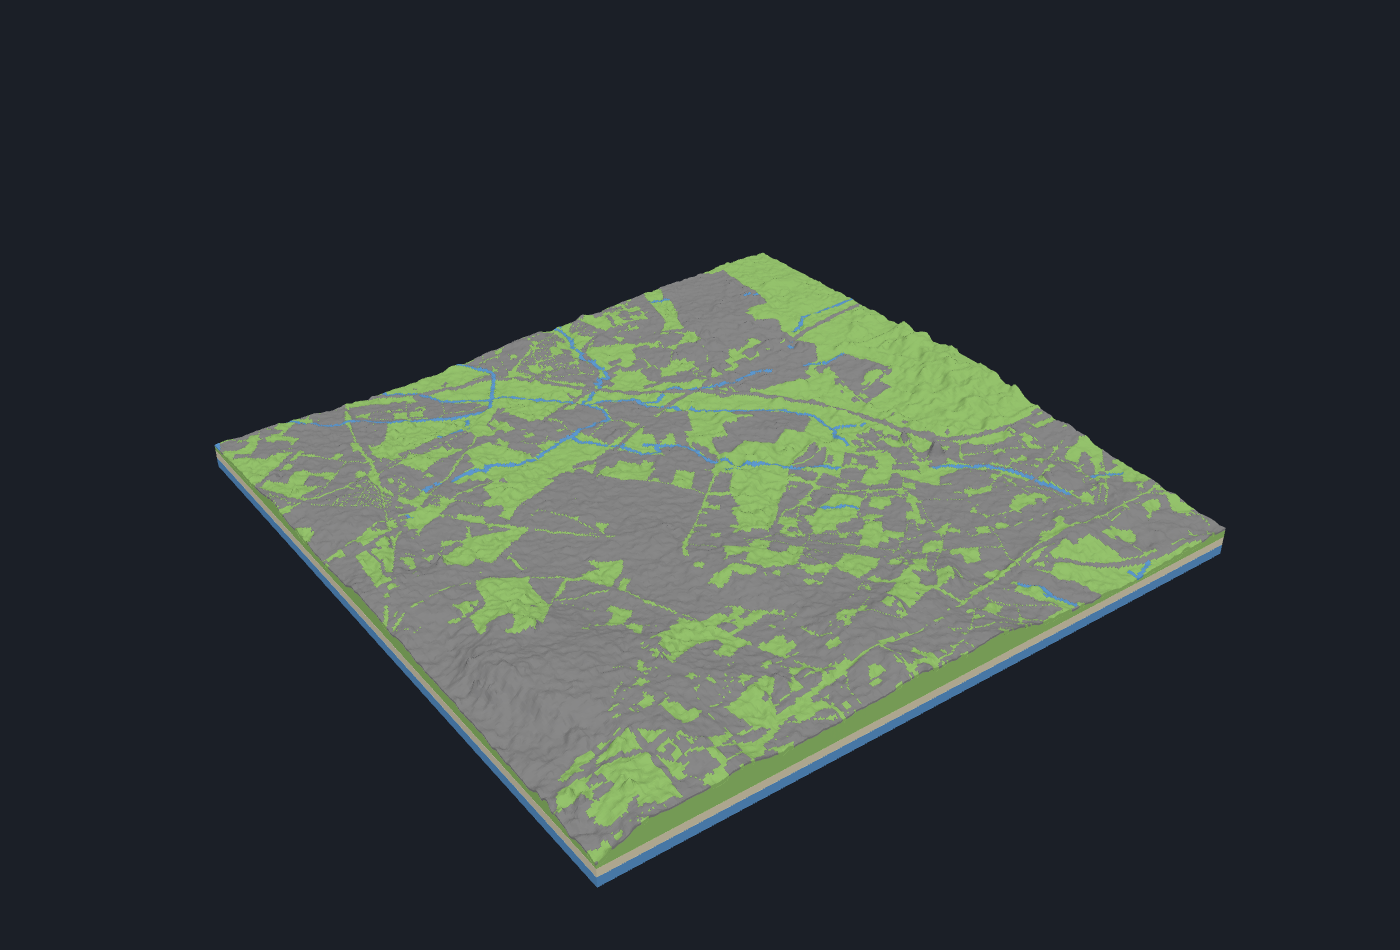
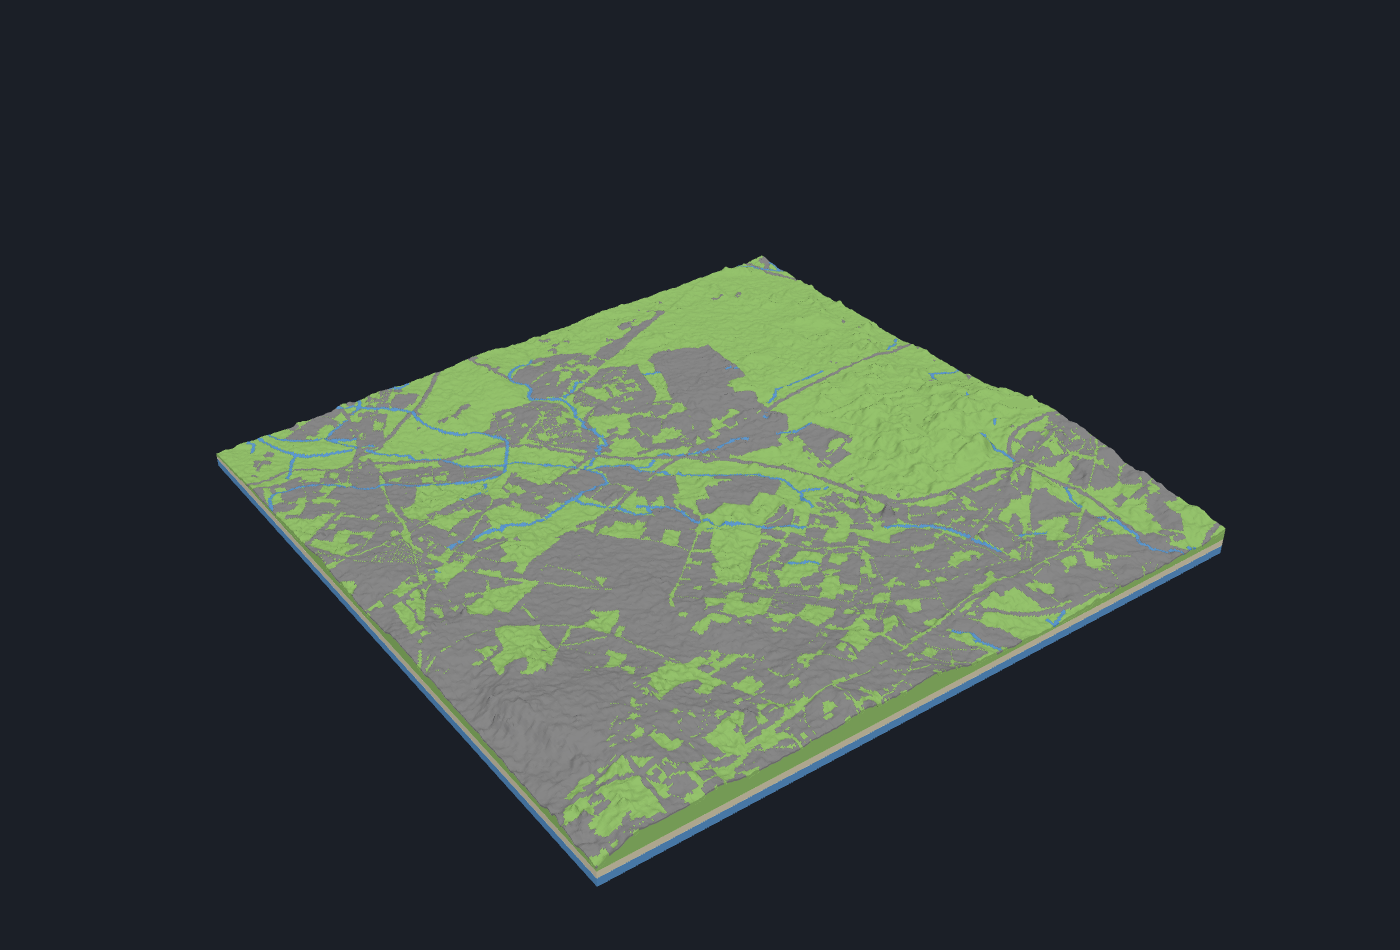
Claude opus did the finishing touches

Changed region(s): [[0.1536, 0.2442, 0.8907, 0.9158], [0.3379, 0.7632, 0.3686, 0.8242], [0.3071, 0.7326, 0.3379, 0.7632]]

diff --git a/my3dmaps/config.py b/my3dmaps/config.py
@@ -12,8 +12,41 @@ from dataclasses import asdict, dataclass, field, fields
 from pathlib import Path
 from typing import Any, Optional
 
-TILE_MM_DEFAULT = 200.0
+TILE_MM_DEFAULT = 245.0  # 2 x 2 tiles fill a 50 x 50 cm frame with a 5 mm border
 BED_MM = 256.0
+# Elegoo Centauri Carbon 2 no-print zone, from OrcaSlicer's official profile
+# (resources/profiles/Elegoo/machine/ECC2, "bed_exclude_area"): x 246-256, y 0-20.
+BED_EXCLUDE = [(246.0, 0.0, 256.0, 20.0)]
+BED_CLEARANCE_MM = 0.5  # gap kept from the bed edge and the no-print zone
+
+
+def place_on_bed(footprint_mm: float) -> tuple[float, float] | None:
+    """(x, y) of a square footprint's lower-left corner on the bed: centred when
+    that clears the no-print zones, otherwise shifted the least distance that
+    does.  None if it cannot fit at all."""
+    lo, hi = BED_CLEARANCE_MM, BED_MM - BED_CLEARANCE_MM - footprint_mm
+    if hi < lo:
+        return None
+    centre = (BED_MM - footprint_mm) / 2.0
+
+    def clear(x: float, y: float) -> bool:
+        return all(x + footprint_mm <= ex0 - BED_CLEARANCE_MM or x >= ex1 + BED_CLEARANCE_MM
+                   or y + footprint_mm <= ey0 - BED_CLEARANCE_MM or y >= ey1 + BED_CLEARANCE_MM
+                   for ex0, ey0, ex1, ey1 in BED_EXCLUDE)
+
+    cands = {lo, hi, centre}
+    for ex0, ey0, ex1, ey1 in BED_EXCLUDE:
+        cands |= {ex0 - BED_CLEARANCE_MM - footprint_mm, ex1 + BED_CLEARANCE_MM,
+                  ey0 - BED_CLEARANCE_MM - footprint_mm, ey1 + BED_CLEARANCE_MM}
+    cands = sorted(c for c in cands if lo - 1e-9 <= c <= hi + 1e-9)
+    best = None
+    for x in cands:
+        for y in cands:
+            if clear(x, y):
+                d = abs(x - centre) + abs(y - centre)
+                if best is None or d < best[0]:
+                    best = (d, x, y)
+    return None if best is None else (best[1], best[2])
 
 NAMED_COLORS = {
     "blue": "#1f5fbf",
@@ -149,6 +182,13 @@ class SlicerConfig:
     filament_presets: list[str] = field(default_factory=list)  # one .json per physical slot (up to 4)
     extra_args: list[str] = field(default_factory=list)
     timeout_s: int = 3600
+    # "auto": switch the prime tower off when the tile leaves no room for one on the bed
+    # (a 245 mm tile leaves 11 mm); "on"/"off" force it.  Applied by writing a copy of
+    # process_preset with enable_prime_tower overridden.  The CC2 purges each colour
+    # change itself (purge_in_prime_tower = 0), so no tower only loses the nozzle wipe
+    # and OrcaSlicer's flush-into-infill, which needs a tower to take effect.
+    prime_tower: str = "auto"
+    prime_tower_room_mm: float = 35.0  # free bed width "auto" needs beside the tile to keep the tower
 
 
 @dataclass
@@ -222,8 +262,9 @@ class ProjectConfig:
         problems = []
         if not (0.05 <= self.pitch_mm <= 5):
             problems.append("pitch_mm should be between 0.05 and 5")
-        if self.tile_mm * (1 + self.shrinkage_pct / 100.0) > BED_MM - 8:
-            problems.append("tile (after shrinkage compensation) leaves no margin on the 256 mm bed")
+        if place_on_bed(self.tile_mm * (1 + self.shrinkage_pct / 100.0)) is None:
+            problems.append(f"a {self.tile_mm * (1 + self.shrinkage_pct / 100.0):.1f} mm tile does not fit the bed "
+                            "outside the printer's no-print zone (largest square is about 245 mm)")
         if not (-2.0 <= self.shrinkage_pct <= 5.0):
             problems.append("shrinkage_pct should be a small percentage (e.g. 0.3)")
         if self.rivers.enabled and self.rivers.depth_mm > self.palette.skin_depth_mm:

diff --git a/tests/test_pipeline_synthetic.py b/tests/test_pipeline_synthetic.py
@@ -69,14 +69,14 @@ def test_tile_objects_are_closed_and_fit_height(synth):
     assert abs(total - expected) / expected < 0.02
     lo, hi = np.min([o.mesh.bounds()[0] for o in tb.objects], axis=0), np.max([o.mesh.bounds()[1] for o in tb.objects], axis=0)
     assert lo[2] == 0.0
-    assert 20 < lo[0] < 40 and 216 < hi[0] < 236  # centred on the 256 mm bed
+    assert abs(lo[0] - 28.0) < 1e-6 and abs(hi[0] - 228.0) < 1e-6  # a 200 mm tile is centred on the 256 mm bed
 
 
 def test_shared_border_between_tiles(synth):
     cfg, grid, elev, water = synth
     cls = classify(cfg, grid, elev, water)
-    a = build_tile(cfg, grid, cls, 0, 0, 2.0, float(elev.min()), center_on_bed=False)
-    b = build_tile(cfg, grid, cls, 1, 0, 2.0, float(elev.min()), center_on_bed=False)
+    a = build_tile(cfg, grid, cls, 0, 0, 2.0, float(elev.min()), place=False)
+    b = build_tile(cfg, grid, cls, 1, 0, 2.0, float(elev.min()), place=False)
     va = np.concatenate([o.mesh.vertices for o in a.objects])
     vb = np.concatenate([o.mesh.vertices for o in b.objects])
     east = va[np.isclose(va[:, 0], cfg.tile_mm)]
@@ -106,7 +106,7 @@ def test_shrinkage_compensation_scales_footprint(synth):
     cfg, grid, elev, water = synth
     cfg.shrinkage_pct = 0.3
     cls = classify(cfg, grid, elev, water)
-    tb = build_tile(cfg, grid, cls, 0, 0, 2.0, float(elev.min()), center_on_bed=False)
+    tb = build_tile(cfg, grid, cls, 0, 0, 2.0, float(elev.min()), place=False)
     lo = np.min([o.mesh.bounds()[0] for o in tb.objects], axis=0)
     hi = np.max([o.mesh.bounds()[1] for o in tb.objects], axis=0)
     assert abs((hi[0] - lo[0]) - cfg.tile_mm * 1.003) < 1e-6
@@ -176,3 +176,34 @@ def test_base_none_uses_lowest_elevation_band_not_overlay(synth):
     cls = classify(cfg, grid, elev, None, None, UrbanFeatures([], [("residential", town, None)]))
     assert cls.bands[0].kind == "urban"
     assert cls.base_color == cls.bands[cls.elev_band_indices[0]].color != cls.bands[0].color
+
+
+def test_bed_placement_avoids_the_no_print_zone():
+    from my3dmaps.config import BED_EXCLUDE, place_on_bed
+
+    assert place_on_bed(200.0) == (28.0, 28.0)  # centred when that is clear
+    x, y = place_on_bed(245.0)
+    ex0, ey0, ex1, ey1 = BED_EXCLUDE[0]
+    assert x >= 0.5 and y >= 0.5 and x + 245 <= 255.5 and y + 245 <= 255.5
+    assert x + 245 <= ex0 - 0.5 or y >= ey1 + 0.5  # clear of the front-right corner zone
+    assert place_on_bed(250.0) is None  # the requested 25 cm does not fit
+    assert ProjectConfig(tile_mm=250.0).validate()
+    assert ProjectConfig(tile_mm=245.0).validate() == []
+
+
+def test_245mm_tile_is_placed_clear_of_the_zone(synth):
+    cfg, grid, elev, water = synth
+    cfg.tile_mm = 245.0
+    cls = classify(cfg, grid, elev, water)
+    tb = build_tile(cfg, grid, cls, 0, 0, 2.0, float(elev.min()))
+    lo = np.min([o.mesh.bounds()[0] for o in tb.objects], axis=0)
+    hi = np.max([o.mesh.bounds()[1] for o in tb.objects], axis=0)
+    assert lo[0] >= 0.5 - 1e-9 and hi[0] <= 245.5 + 1e-9  # right edge left of the zone at x = 246
+    assert lo[1] >= 0.5 - 1e-9 and hi[1] <= 255.5 + 1e-9
+    assert tuple(tb.bed_offset_mm) == (lo[0], lo[1])
+
+
+def test_suggested_relief_scales_with_tile_size():
+    small = suggest_exaggeration(ProjectConfig(scale=250000, tile_mm=200.0), 4000.0)
+    big = suggest_exaggeration(ProjectConfig(scale=250000, tile_mm=245.0), 4000.0)
+    assert big > small

diff --git a/my3dmaps/slicer.py b/my3dmaps/slicer.py
@@ -112,7 +112,7 @@ def write_assemble_list(path: Path, inputs: list[SliceInput], plate_name: str) -
     return path
 
 
-def machine_pause_gcode(cfg: SlicerConfig, default: str = "M601") -> str:
+def machine_pause_gcode(cfg: SlicerConfig, default: str = "M600") -> str:  # CC2 profile's machine_pause_gcode
     if cfg.machine_preset and Path(cfg.machine_preset).exists():
         try:
             d = json.loads(Path(cfg.machine_preset).read_text())
@@ -162,19 +162,46 @@ def insert_pauses(gcode_in: Path, gcode_out: Path, swaps: list[Swap], pause_gcod
     return inserted
 
 
+def wants_prime_tower(cfg: SlicerConfig, footprint_mm: float, bed_mm: float = 256.0) -> bool:
+    if cfg.prime_tower == "on":
+        return True
+    if cfg.prime_tower == "off":
+        return False
+    return bed_mm - footprint_mm >= cfg.prime_tower_room_mm
+
+
+def process_with_prime_tower(process_preset: str, enable: bool, out_dir: Path) -> str:
+    """Copy of the exported process preset with enable_prime_tower forced (OrcaSlicer
+    preset JSON stores booleans as "0"/"1").  Returns the path to use."""
+    src = Path(process_preset)
+    d = json.loads(src.read_text())
+    want = "1" if enable else "0"
+    if str(d.get("enable_prime_tower", "")) == want:
+        return process_preset
+    d["enable_prime_tower"] = want
+    if "name" in d:
+        d["name"] = f"{d['name']} (my3dmaps, prime tower {'on' if enable else 'off'})"
+    dst = out_dir / f"process_{'tower' if enable else 'notower'}.json"
+    dst.write_text(json.dumps(d, indent=4))
+    return str(dst)
+
+
 def slice_tile(cfg: SlicerConfig, inputs: list[SliceInput], out_dir: Path, plate_name: str,
-               swaps: list[Swap] | None = None, dry_run: bool = False) -> SliceResult:
+               swaps: list[Swap] | None = None, dry_run: bool = False, footprint_mm: float | None = None) -> SliceResult:
     out_dir.mkdir(parents=True, exist_ok=True)
     log_path = out_dir / "slicer.log"
     exe = find_executable(cfg)
+    process = cfg.process_preset
+    if process and footprint_mm is not None and Path(process).exists():
+        process = process_with_prime_tower(process, wants_prime_tower(cfg, footprint_mm), out_dir)
     assemble = write_assemble_list(out_dir / "assemble.json", inputs, plate_name)
     n_slots = max([i.filament for i in inputs] + [1])
     filaments = list(cfg.filament_presets)
     if filaments and len(filaments) < n_slots:
         filaments = filaments + [filaments[-1]] * (n_slots - len(filaments))
     cmd = [exe or "orca-slicer"]
-    if cfg.machine_preset or cfg.process_preset:
-        cmd += ["--load-settings", ";".join(p for p in (cfg.machine_preset, cfg.process_preset) if p)]
+    if cfg.machine_preset or process:
+        cmd += ["--load-settings", ";".join(p for p in (cfg.machine_preset, process) if p)]
     if filaments:
         cmd += ["--load-filaments", ";".join(filaments)]
     cmd += ["--load-assemble-list", str(assemble), "--slice", "0", "--debug", "2",

diff --git a/my3dmaps/tile.py b/my3dmaps/tile.py
@@ -21,7 +21,7 @@ from dataclasses import dataclass, field
 import numpy as np
 
 from .classify import Classification
-from .config import BED_MM, ProjectConfig
+from .config import ProjectConfig, place_on_bed
 from .geo import Grid
 from .mesh import Mesh, MeshObject, concat, sheet_mesh
 from .plan import ColorRange, SlotPlan, plan_slots
@@ -38,6 +38,7 @@ class TileBuild:
     exaggeration: float
     ranges: list[ColorRange] = field(default_factory=list)
     footprint_mm: float = 0.0  # printed footprint after shrinkage compensation
+    bed_offset_mm: tuple[float, float] = (0.0, 0.0)  # where the tile's (0,0) corner sits on the bed
 
     @property
     def name(self) -> str:
@@ -51,6 +52,7 @@ class TileBuild:
                          "triangles": int(len(o.mesh.faces))} for o in self.objects],
             "plan": self.plan.to_dict(),
             "footprint_mm": round(self.footprint_mm, 3),
+            "bed_offset_mm": [round(v, 3) for v in self.bed_offset_mm],
         }
 
 
@@ -86,7 +88,7 @@ def skin_depth_nodes(skin_depth_mm: float, thin: list[tuple[np.ndarray | None, f
 
 
 def build_tile(cfg: ProjectConfig, grid: Grid, cls: Classification, tx: int, ty: int,
-               exaggeration: float, z_datum_m: float, center_on_bed: bool = True) -> TileBuild:
+               exaggeration: float, z_datum_m: float, place: bool = True) -> TileBuild:
     js, is_ = grid.tile_slices(tx, ty)
     e = cls.elev[js, is_]
     cells_cls = cls.cells[js.start:js.stop - 1, is_.start:is_.stop - 1]
@@ -160,9 +162,16 @@ def build_tile(cfg: ProjectConfig, grid: Grid, cls: Classification, tx: int, ty:
             v[:, 1] = c + (v[:, 1] - c) * f
             o.mesh = Mesh(v, o.mesh.faces)
 
-    if center_on_bed:
-        off = (BED_MM - cfg.tile_mm) / 2.0
+    # bed placement: centred, or nudged clear of the printer's no-print zone
+    offset = (0.0, 0.0)
+    if place:
+        foot = cfg.tile_mm * f
+        pos = place_on_bed(foot)
+        if pos is None:
+            raise ValueError(f"a {foot:.1f} mm tile does not fit the bed outside the no-print zone")
+        # the shrinkage scaling kept the tile centred on tile_mm/2, so its corner is at -(foot - tile_mm)/2
+        offset = (pos[0] + (foot - cfg.tile_mm) / 2.0, pos[1] + (foot - cfg.tile_mm) / 2.0)
         for o in objects:
-            o.mesh = o.mesh.translated((off, off, 0.0))
+            o.mesh = o.mesh.translated((offset[0], offset[1], 0.0))
 
-    return TileBuild(tx, ty, objects, plan, float(ez.max()), z_datum_m, exaggeration, ranges, cfg.tile_mm * f)
+    return TileBuild(tx, ty, objects, plan, float(ez.max()), z_datum_m, exaggeration, ranges, cfg.tile_mm * f, offset)

diff --git a/my3dmaps/pipeline.py b/my3dmaps/pipeline.py
@@ -209,6 +209,11 @@ def build_project(cfg: ProjectConfig, out_dir: str | Path, progress: Progress = 
     if problems:
         raise ValueError("; ".join(problems))
     terrain = prepare_terrain(cfg, progress)
+    # a build must not silently differ from what was asked for (the preview tolerates missing layers)
+    for layer, feats, flag in (("rivers", terrain.rivers, "--no-rivers"), ("urban layer", terrain.urban, "--no-urban")):
+        if feats is not None and feats.error:
+            raise RuntimeError(f"{layer} are enabled but could not be fetched ({feats.error}). "
+                               f"Try again later (the Overpass API is a shared service), or build without them ({flag}).")
     progress("classify", "classifying terrain into bands", 0.35)
     cls = analyze(cfg, terrain)
     tiles = build_tiles(cfg, terrain, cls, progress)
@@ -236,7 +241,7 @@ def build_project(cfg: ProjectConfig, out_dir: str | Path, progress: Progress = 
         summ["files"] = {"3mf": str(tdir / f"{t.name}.3mf"), "stl": [str(s.stl_path) for s in stls]}
         if do_slice:
             progress("slice", f"slicing {t.name}", None)
-            res = slice_tile(cfg.slicer, stls, tdir / "sliced", t.name, t.plan.swaps)
+            res = slice_tile(cfg.slicer, stls, tdir / "sliced", t.name, t.plan.swaps, footprint_mm=t.footprint_mm)
             summ["slice"] = {"ok": res.ok, "message": res.message, "gcode": str(res.gcode_path) if res.gcode_path else None,
                              "log": str(res.log_path), "swaps_inserted": res.swaps_inserted, "command": res.command}
         tile_summaries.append(summ)

diff --git a/tools/render_tiles.py b/tools/render_tiles.py
@@ -93,7 +93,9 @@ async def main() -> None:
     out = Path(args.out)
     out.mkdir(parents=True, exist_ok=True)
     tile_mm = float(json.loads((root / "project.json").read_text())["tile_mm"])
-    bed_off = (256.0 - tile_mm) / 2.0
+
+    def bed_off(t: dict) -> tuple[float, float]:
+        return tuple(t.get("bed_offset_mm") or [(256.0 - tile_mm) / 2.0] * 2)
 
     from playwright.async_api import async_playwright
 
@@ -109,8 +111,8 @@ async def main() -> None:
                 info = await render(page, png, [{"url": f"{t['name']}/preview.glb", "dx": 0, "dy": 0}],
                                     args.width, args.height, 2.05, root, port)
                 print(f"{png}  ({info['triangles']} triangles)")
-            items = [{"url": f"{t['name']}/preview.glb", "dx": t["tx"] * (tile_mm + args.gap_mm) - bed_off,
-                      "dy": t["ty"] * (tile_mm + args.gap_mm) - bed_off} for t in summary["tiles"]]
+            items = [{"url": f"{t['name']}/preview.glb", "dx": t["tx"] * (tile_mm + args.gap_mm) - bed_off(t)[0],
+                      "dy": t["ty"] * (tile_mm + args.gap_mm) - bed_off(t)[1]} for t in summary["tiles"]]
             png = out / f"{prefix}_assembly.png"
             info = await render(page, png, items, args.width, args.height, 1.9, root, port)
             print(f"{png}  ({info['triangles']} triangles)")

diff --git a/tests/test_slicer.py b/tests/test_slicer.py
@@ -37,3 +37,20 @@ def test_slice_tile_dry_run_builds_expected_command(tmp_path):
     assert "--load-filaments f1.json;f2.json" in cmd
     assert "--load-assemble-list" in cmd and "--slice 0" in cmd and "--export-3mf tile.3mf" in cmd
     assert Path(res.log_path).exists()
+
+
+def test_prime_tower_auto_off_for_big_tiles(tmp_path):
+    import json
+
+    from my3dmaps.slicer import process_with_prime_tower, wants_prime_tower
+
+    cfg = SlicerConfig()
+    assert wants_prime_tower(cfg, 200.0) and not wants_prime_tower(cfg, 245.0)
+    assert wants_prime_tower(SlicerConfig(prime_tower="on"), 245.0)
+    proc = tmp_path / "p.json"
+    proc.write_text(json.dumps({"type": "process", "name": "0.20mm Standard", "enable_prime_tower": "1"}))
+    out = process_with_prime_tower(str(proc), False, tmp_path)
+    d = json.loads(open(out).read())
+    assert d["enable_prime_tower"] == "0" and "prime tower off" in d["name"]
+    assert json.loads(proc.read_text())["enable_prime_tower"] == "1"  # original untouched
+    assert process_with_prime_tower(str(proc), True, tmp_path) == str(proc)  # nothing to change

diff --git a/my3dmaps/classify.py b/my3dmaps/classify.py
@@ -378,13 +378,14 @@ def classify(cfg: ProjectConfig, grid: Grid, elev: np.ndarray, water: Optional[W
 def suggest_exaggeration(cfg: ProjectConfig, relief_m: float, target_relief_mm: float = 45.0) -> float:
     """Pick a starting height multiplier from measured relief.
 
-    Aims for ~45 mm of relief on a 200 mm tile (flat regions get more,
-    mountains less), clamped to 1-8x and to the printable height budget.
+    Aims for ~45 mm of relief per 200 mm of tile edge (55 mm on a 245 mm
+    tile; flat regions get more, mountains less), clamped to 1-8x and to the
+    printable height budget.
     """
     if relief_m <= 0:
         return 1.0
-    natural = relief_m * cfg.mm_per_m * (cfg.tile_mm / 200.0)
-    ex = target_relief_mm / max(natural, 1e-6)
+    natural = relief_m * cfg.mm_per_m
+    ex = target_relief_mm * (cfg.tile_mm / 200.0) / max(natural, 1e-6)
     ex = max(1.0, min(8.0, ex))
     return cap_exaggeration(cfg, relief_m, round(ex * 4) / 4)
 

diff --git a/my3dmaps/cli.py b/my3dmaps/cli.py
@@ -105,7 +105,8 @@ def cmd_slicer_run(args):
     proj = ProjectConfig.load(args.project) if args.project else ProjectConfig.load(tdir.parent / "project.json")
     inputs = [SliceInput(tdir / f"{o['name']}.stl", o["extruder"]) for o in plan["objects"]]
     swaps = [Swap(**s) for s in plan["plan"]["swaps"]]
-    res = slice_tile(proj.slicer, inputs, tdir / "sliced", plan["name"], swaps, dry_run=args.dry_run)
+    res = slice_tile(proj.slicer, inputs, tdir / "sliced", plan["name"], swaps, dry_run=args.dry_run,
+                     footprint_mm=plan.get("footprint_mm", proj.tile_mm))
     print(json.dumps({"ok": res.ok, "message": res.message, "gcode": str(res.gcode_path) if res.gcode_path else None,
                       "command": res.command, "log": str(res.log_path)}, indent=2))
 

diff --git a/tests/test_rivers.py b/tests/test_rivers.py
@@ -138,3 +138,14 @@ def test_liverpool_rivers_from_osm():
     assert "River Alt" in names
     cells = rasterize_rivers(r, grid, cfg)
     assert cells.any()
+
+
+def test_build_fails_loudly_when_rivers_cannot_be_fetched(monkeypatch, tmp_path, synth):
+    import my3dmaps.pipeline as P
+    from my3dmaps.pipeline import Terrain
+
+    cfg, grid, elev, water = synth
+    broken = RiverFeatures([], [], "osm", "HTTP 502")
+    monkeypatch.setattr(P, "prepare_terrain", lambda *a, **k: Terrain(grid, elev, elev, water, {}, broken))
+    with pytest.raises(RuntimeError, match="--no-rivers"):
+        P.build_project(cfg, tmp_path)

diff --git a/my3dmaps/rivers.py b/my3dmaps/rivers.py
@@ -89,7 +89,7 @@ def fetch_overpass(q: str, label: str, progress: Callable[[str], None] | None = 
     for attempt, url in enumerate(urls * 2):
         try:
             r = requests.post(url, data={"data": q}, timeout=timeout, headers={"User-Agent": USER_AGENT})
-            if r.status_code in (429, 504, 503):
+            if r.status_code in (429, 502, 503, 504):
                 last = RuntimeError(f"Overpass {url} answered HTTP {r.status_code}")
                 time.sleep(5 * (attempt + 1))
                 continue

diff --git a/tests/conftest.py b/tests/conftest.py
@@ -26,7 +26,7 @@ def pytest_collection_modifyitems(config, items):
 @pytest.fixture
 def synth():
     """Synthetic 2x1 project: a lake on the west, a 3000 m peak on the east."""
-    cfg = ProjectConfig(name="synth", scale=50000, tiles_x=2, tiles_y=1, pitch_mm=2.0, exaggeration=2.0)
+    cfg = ProjectConfig(name="synth", scale=50000, tiles_x=2, tiles_y=1, tile_mm=200.0, pitch_mm=2.0, exaggeration=2.0)
     grid = make_grid(cfg)
     ny, nx = grid.shape
     X, Y = np.meshgrid(np.linspace(0, 1, nx), np.linspace(0, 1, ny))
